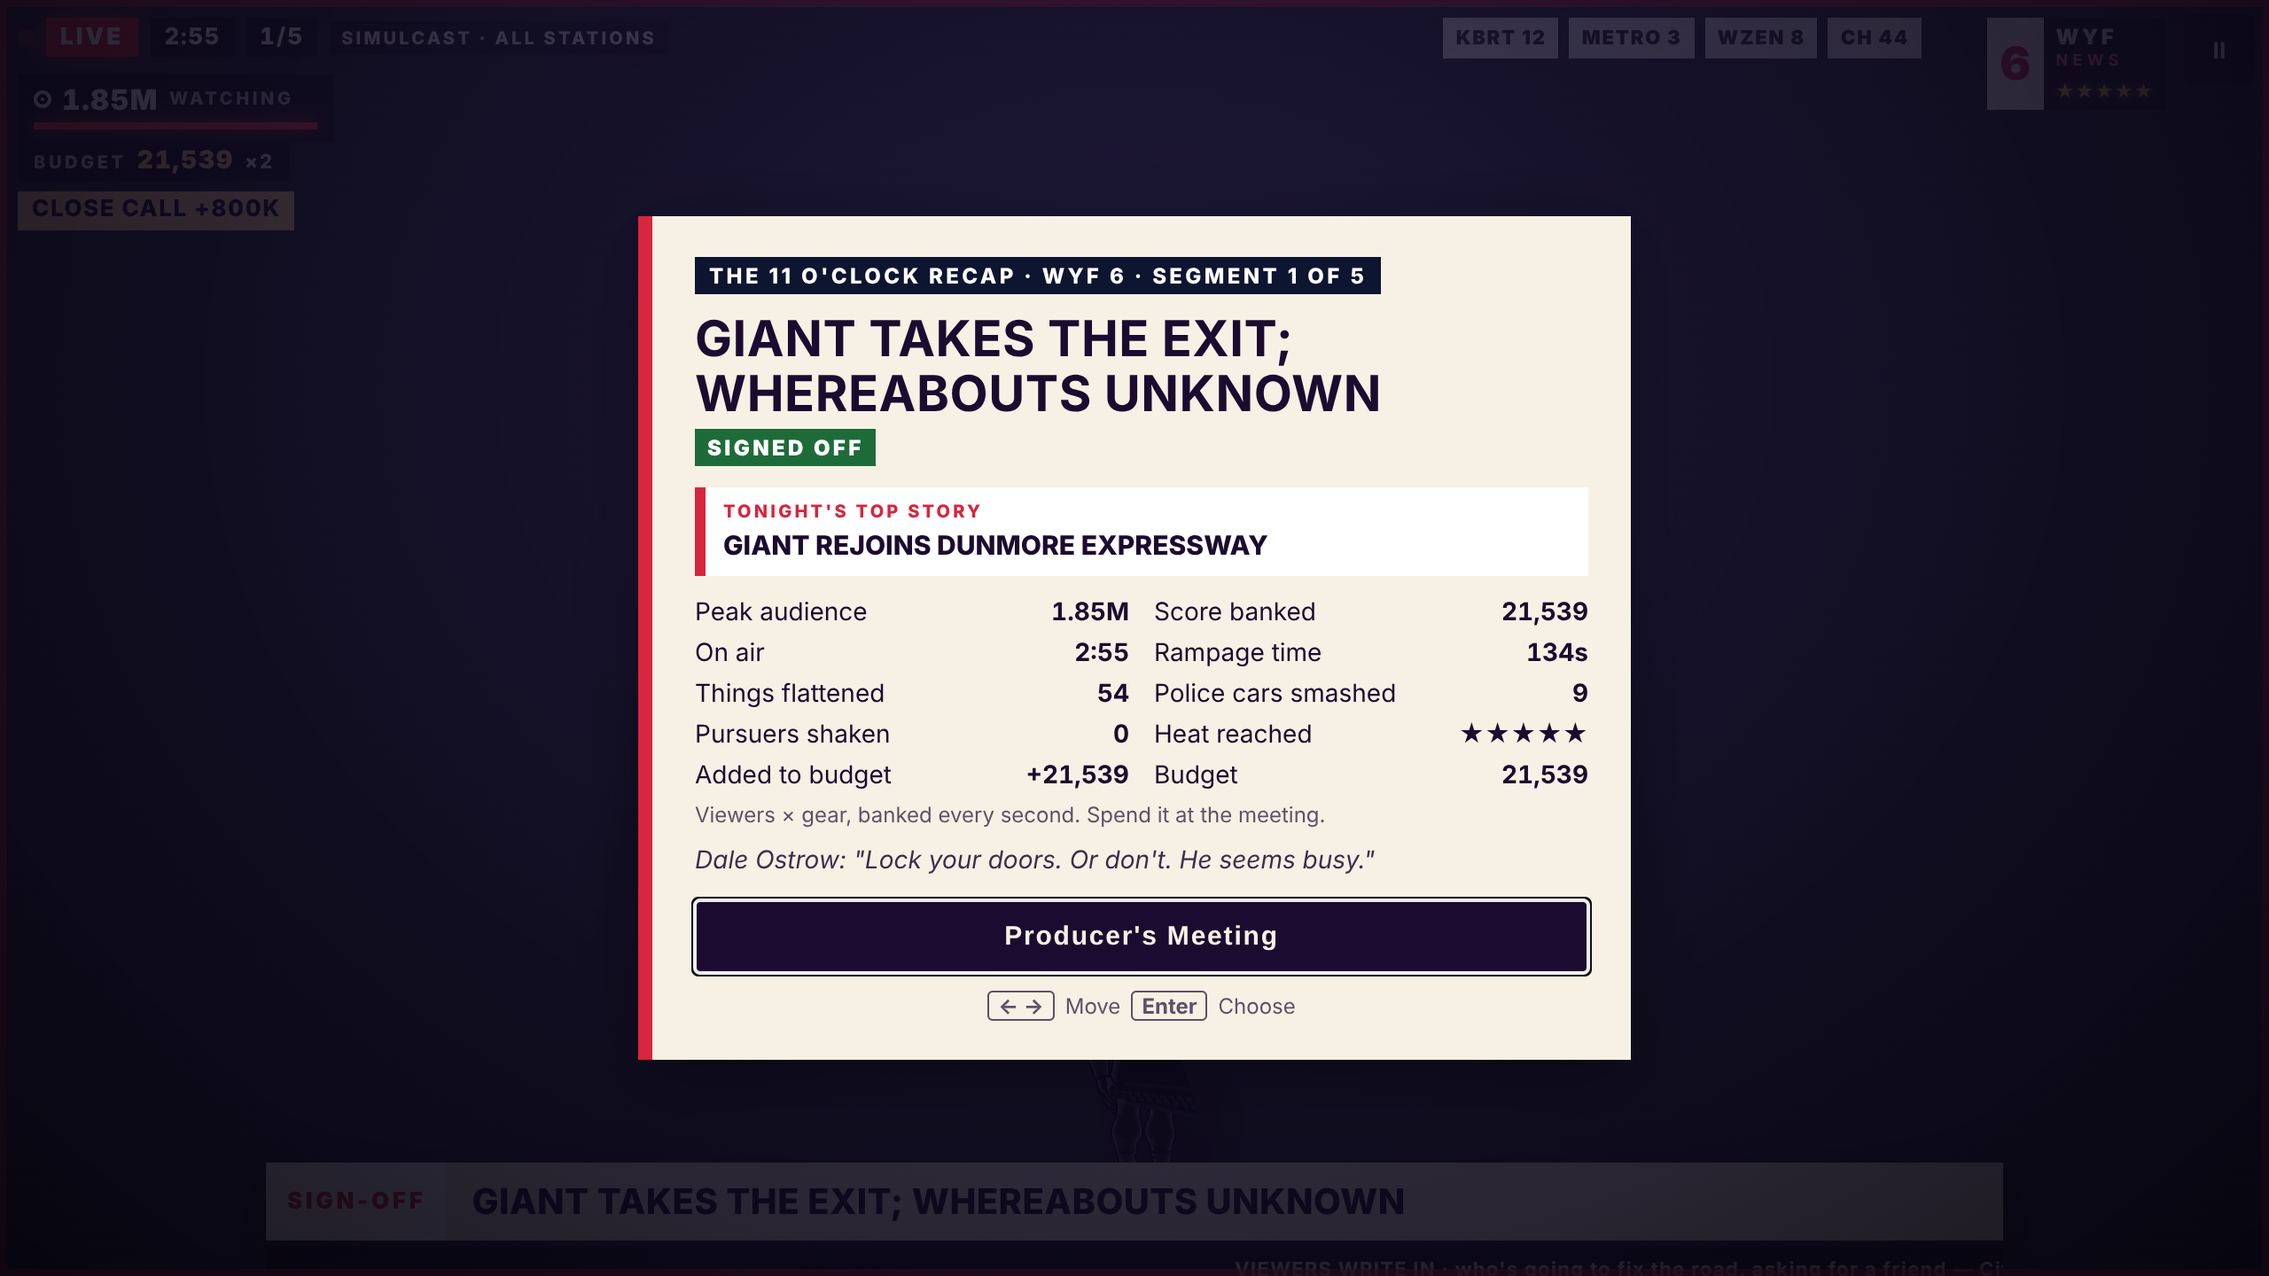
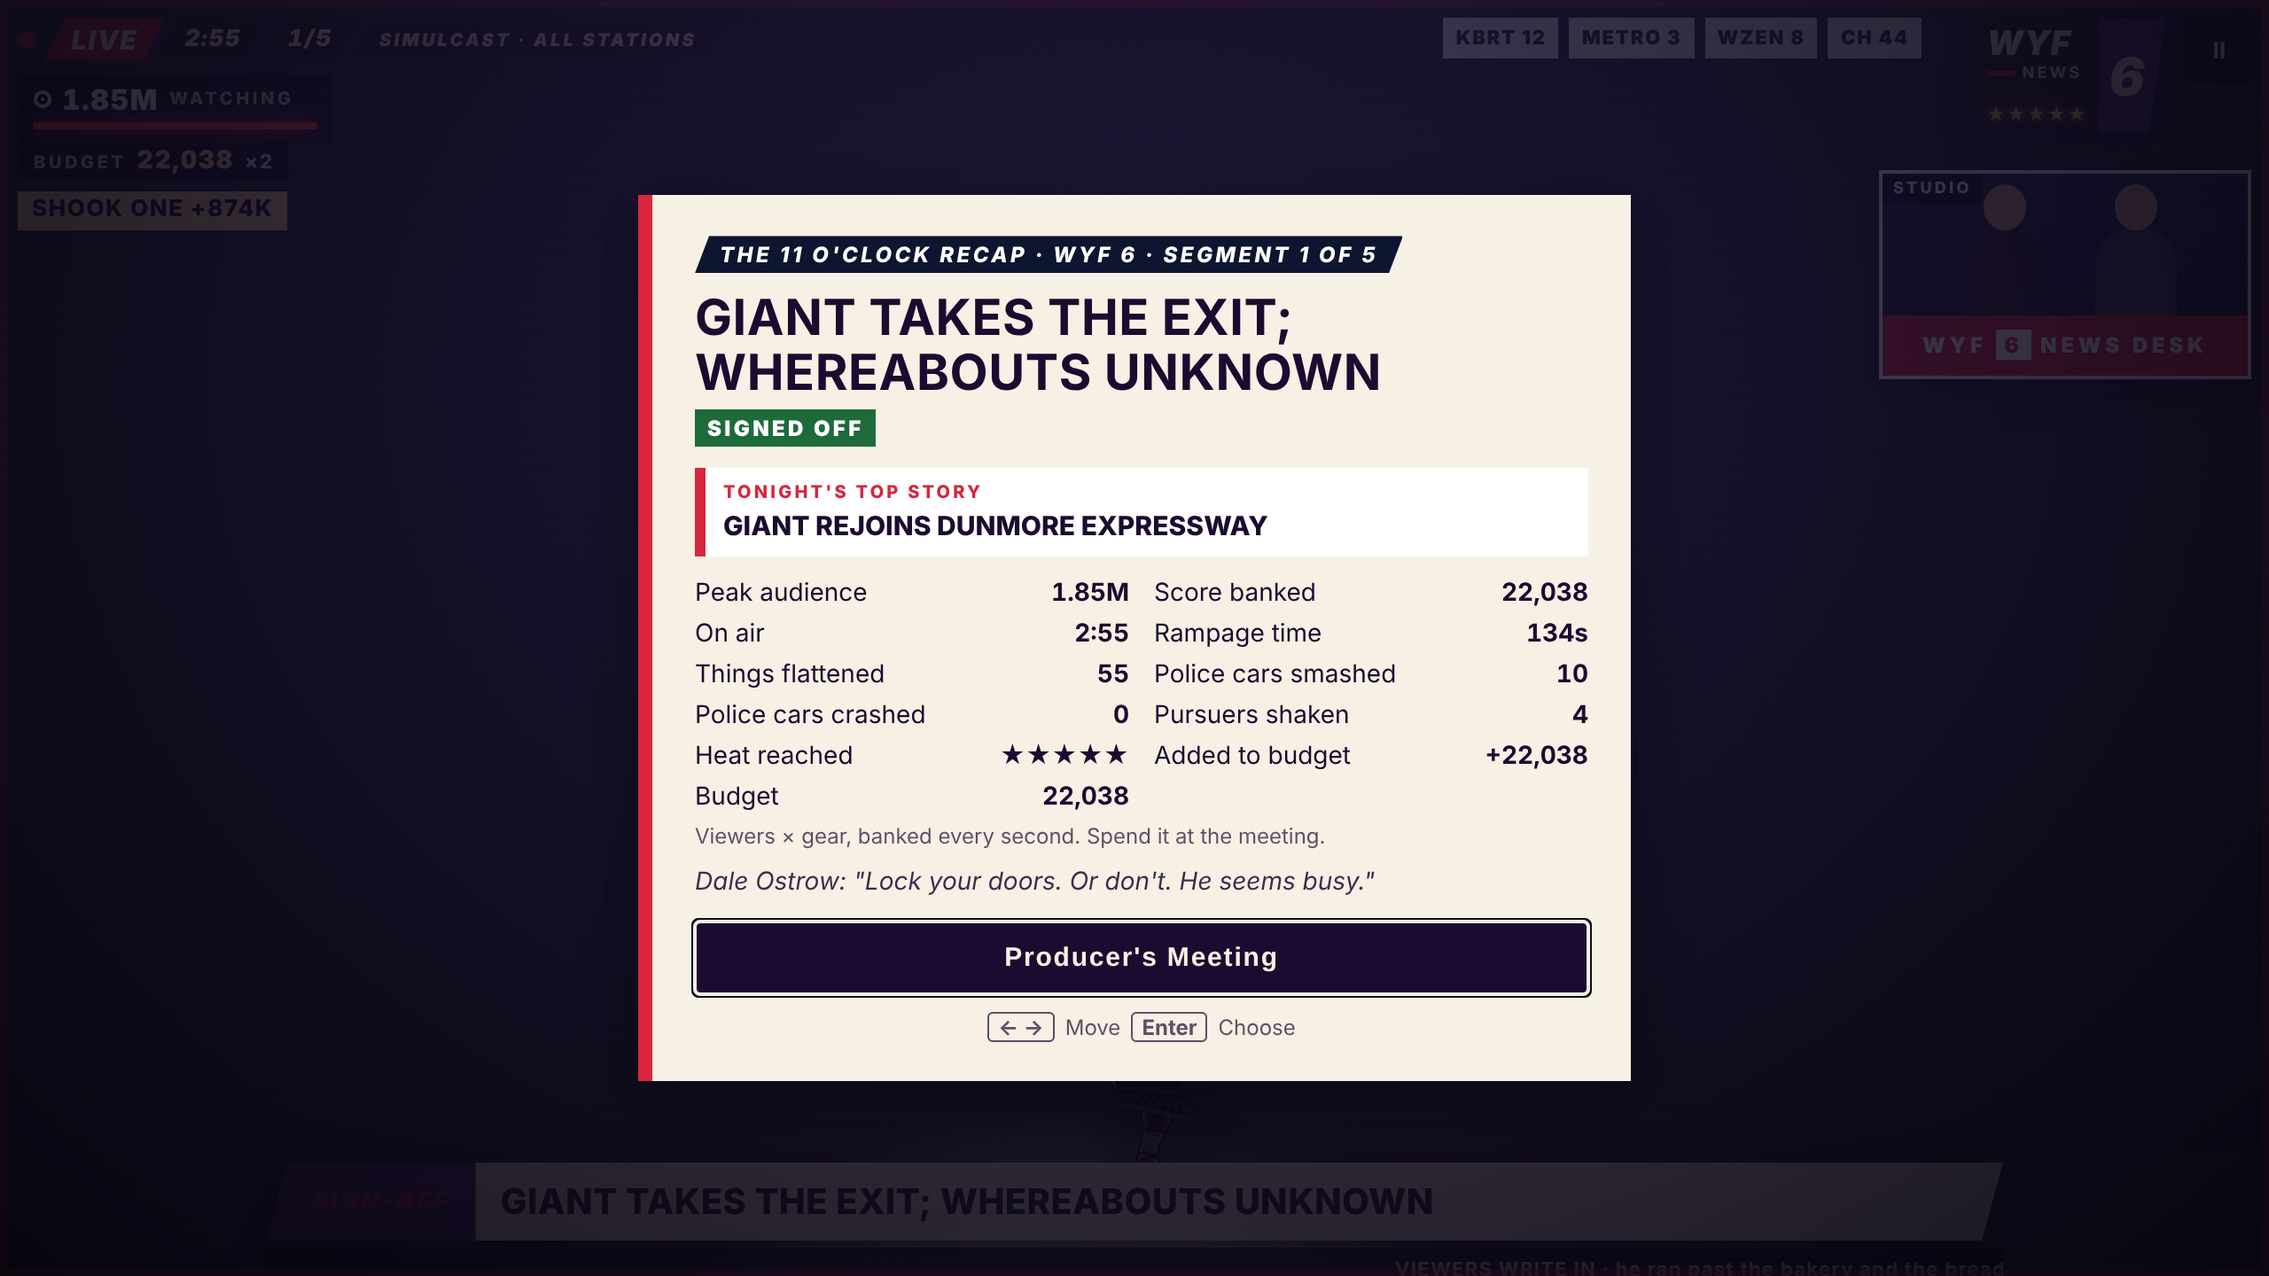
Broadcast package and upgrade art from Mike's sheet; police crash evidence
- HUD badges rebuilt in CSS from the sheet: slanted shapes, italic caps,
  red/ink/purple/cream; WYF/NEWS bug with the 6 on purple; BUSTED and
  SIGN-OFF kickers coloured.
- The 8 upgrade illustrations on the Producer's Meeting cards, the
  ability chip and the touch button; Mike's producer lines on each card.
- Police crash evidence renders frames while searching (units had no views).

Claude-Session: https://claude.ai/code/session_01U6CEu36hrVhyNvxAEfgX3T

diff --git a/src/style.css b/src/style.css
@@ -387,3 +387,50 @@ html:has(#budget:not([hidden])) #gainpop { top: calc(108px + env(safe-area-inset
 #recap .meeting .how { font-size: 13px; opacity: 0.75; margin: 4px 0 10px; }
 #recap .pitch .need { display: block; font-size: 11px; font-weight: 700; color: #d7263d; margin-top: 2px; }
 #recap .stats .how { grid-column: 1 / -1; font-size: 12px; opacity: 0.7; }
+
+/* --- Broadcast package from Mike's sheet (docs/refs/broadcast-and-upgrades-sheet.webp) -------------
+   Rebuilt as CSS shapes, not the raster: slanted parallelograms, heavy italic caps, the sheet's
+   red / ink / purple / cream. Crisp at any size, no fringing. ------------------------------------- */
+:root { --wyf-red: #ab2530; --wyf-ink: #1e1821; --wyf-purple: #4b2a63; --wyf-cream: #ece0c8; --wyf-blue: #465a7a; --slant: 12px; }
+#live b, #live #clock, #live #segno, #live #coverage {
+  font-style: italic; font-weight: 900;
+  clip-path: polygon(var(--slant) 0, 100% 0, calc(100% - var(--slant)) 100%, 0 100%);
+  padding-left: calc(8px + var(--slant) * 0.6); padding-right: calc(8px + var(--slant) * 0.6);
+}
+#live { gap: 0; }
+#live .dot { margin-right: 6px; }
+#live b { background: var(--wyf-red); color: var(--wyf-cream); box-shadow: none; font-size: 15px; letter-spacing: 0.06em; }
+#live #clock, #live #segno, #live #coverage { background: rgba(30, 24, 33, 0.82); color: var(--wyf-cream); margin-left: -4px; }
+#live #clock.count { background: #1e6b3a; }
+/* Station bug: WYF / NEWS on ink, the 6 on purple, one slanted block. */
+#bug { opacity: 0.9; filter: drop-shadow(0 3px 8px rgba(0, 0, 0, 0.45)); }
+#bug .call { order: 0; background: var(--wyf-ink); color: var(--wyf-cream); font-style: italic; font-weight: 900; font-size: 19px; letter-spacing: 0.02em; padding: 5px 6px 4px 18px; clip-path: polygon(12px 0, 100% 0, 100% 100%, 0 100%); }
+#bug .call i { color: var(--wyf-cream); font-size: 9px; letter-spacing: 0.18em; display: flex; align-items: center; gap: 4px; }
+#bug .call i::before { content: ''; width: 16px; height: 3px; background: var(--wyf-red); }
+#bug .ch { order: 1; background: var(--wyf-purple); color: var(--wyf-cream); font-style: italic; font-size: 30px; padding: 2px 12px 0 6px; clip-path: polygon(0 0, 100% 0, calc(100% - 10px) 100%, 0 100%); }
+/* Chyron: red kicker + cream field, slanted ends. */
+#chyron { box-shadow: none; filter: drop-shadow(0 6px 16px rgba(0, 0, 0, 0.45)); }
+#chyron .kicker { background: var(--wyf-red); color: var(--wyf-cream); font-style: italic; padding: 0 14px 0 calc(14px + var(--slant)); clip-path: polygon(var(--slant) 0, 100% 0, 100% 100%, 0 100%); }
+#chyron .kicker.breaking { background: var(--wyf-cream); color: var(--wyf-red); }
+#chyron .kicker.busted { background: var(--wyf-red); }
+#chyron .kicker.signoff { background: var(--wyf-purple); }
+#chyron .text { background: rgba(236, 224, 200, 0.97); color: var(--wyf-ink); clip-path: polygon(0 0, 100% 0, calc(100% - var(--slant)) 100%, 0 100%); }
+#breaking { background: var(--wyf-red); color: var(--wyf-cream); font-style: italic; box-shadow: none; clip-path: polygon(18px 0, 100% 0, calc(100% - 18px) 100%, 0 100%); }
+.card .kicker, #recap .kicker { font-style: italic; clip-path: polygon(8px 0, 100% 0, calc(100% - 8px) 100%, 0 100%); padding-left: 14px; padding-right: 14px; }
+/* Producer's Meeting cards: the sheet's art up top, the producer's line, then what it does. */
+#recap .pitch { padding: 0 0 12px; overflow: hidden; }
+#recap .pitch > :not(.art) { margin-left: 12px; margin-right: 12px; }
+#recap .pitch .art { position: relative; display: block; width: 100%; aspect-ratio: 16 / 10; overflow: hidden; background: #191230; }
+#recap .pitch .art img { width: 100%; height: 100%; object-fit: cover; display: block; }
+#recap .pitch .art .tag { position: absolute; left: 8px; top: 8px; font-style: italic; font-weight: 900; clip-path: polygon(5px 0, 100% 0, calc(100% - 5px) 100%, 0 100%); padding: 3px 9px; background: var(--wyf-ink); color: var(--wyf-cream); }
+#recap .pitch.ability .art .tag { background: var(--wyf-red); }
+#recap .pitch.passive .art .tag { background: var(--wyf-purple); }
+#recap .pitch .said { font-size: 13px; font-style: italic; color: var(--wyf-cream); line-height: 1.35; quotes: '“' '”'; }
+#recap .pitch .blurb { font-size: 12px; opacity: 0.7; }
+#recap .pitch:disabled .art img { filter: grayscale(0.7); }
+/* Ability chip and touch button carry the art. */
+#abil .ic { width: 34px; height: 34px; object-fit: cover; margin: -2px 0 -2px -4px; border: 1px solid rgba(236, 224, 200, 0.35); }
+#abil:not(.ready) .ic { filter: grayscale(0.8) brightness(0.7); }
+#btn-ability { background-size: cover; background-position: center; color: var(--wyf-cream); text-shadow: 0 1px 3px #000; display: grid; align-items: end; padding-bottom: 6px; }
+#btn-ability:not(.ready) { filter: grayscale(0.8); }
+#btn-ability.ready { background-color: transparent; color: var(--wyf-cream); box-shadow: 0 0 0 3px #f2cc8f; }

diff --git a/src/tuning.ts b/src/tuning.ts
@@ -560,15 +560,15 @@ export const TUNING = {
    * segment affords the cheaper half; saving up for Leap/Hijack is a real choice.
    */
   upgrades: {
-    leap: { kind: 'ability', price: 26000, label: 'Leap', blurb: 'Hop lanes of trouble. The landing flattens what you land on.' },
-    stare: { kind: 'ability', price: 21000, label: 'The Stare', blurb: 'Traffic and police ahead pull out of your lane.' },
-    hijack: { kind: 'ability', price: 30000, label: 'Hijack Hop', blurb: 'Ride a car through everything, then bail at Rampage.' },
-    pose: { kind: 'ability', price: 21000, label: 'Pose for the Camera', blurb: 'Stop for the cameras. Heat becomes a Ratings spike.' },
-    ironShins: { kind: 'passive', price: 17000, label: 'Iron Shins', blurb: 'Medium objects never bounce you.' },
-    secondWind: { kind: 'passive', price: 17000, label: 'Second Wind', blurb: 'The box-in meter drains 50% faster.' },
-    showman: { kind: 'passive', price: 22000, label: 'Showman', blurb: 'Something new on air pays double.' },
-    tailwind: { kind: 'passive', price: 19000, label: 'Tailwind', blurb: 'Tier up 30% sooner.' },
-  } as Record<UpgradeId, { kind: 'ability' | 'passive'; price: number; label: string; blurb: string }>,
+    leap: { kind: 'ability', price: 26000, label: 'Leap', blurb: 'Hop lanes of trouble. The landing flattens what you land on.', pitch: 'Get a clean shot of him clearing the spike strip.' },
+    stare: { kind: 'ability', price: 21000, label: 'The Stare', blurb: 'Traffic and police ahead pull out of your lane.', pitch: 'Stay tight on the eyes. We have time.' },
+    hijack: { kind: 'ability', price: 30000, label: 'Hijack Hop', blurb: 'Ride a car through everything, then bail at Rampage.', pitch: 'Follow him across the car roofs. Keep it wide.' },
+    pose: { kind: 'ability', price: 21000, label: 'Pose for the Camera', blurb: 'Stop for the cameras. Heat becomes a Ratings spike.', pitch: 'Hold the close-up. He’s giving us a usable still.' },
+    ironShins: { kind: 'passive', price: 17000, label: 'Iron Shins', blurb: 'Medium objects never bounce you.', pitch: 'Keep rolling. The street furniture won’t slow him down.' },
+    secondWind: { kind: 'passive', price: 17000, label: 'Second Wind', blurb: 'The box-in meter drains 50% faster.', pitch: 'Stay with him. He’s slipping out of the box-in faster.' },
+    showman: { kind: 'passive', price: 22000, label: 'Showman', blurb: 'Something new on air pays double.', pitch: 'Double the variety bonus when he gives us something we haven’t aired.' },
+    tailwind: { kind: 'passive', price: 19000, label: 'Tailwind', blurb: 'Tier up 30% sooner.', pitch: 'Cue the wide shot. He’s hitting the next speed tier 30% sooner.' },
+  } as Record<UpgradeId, { kind: 'ability' | 'passive'; price: number; label: string; blurb: string; /** The producer's line on the meeting card (flavour). */ pitch: string }>,
 
   /** Phase 3 abilities (lane-runner versions of §17's pool). 5f input buffer (§8). */
   abilities: {

diff --git a/src/game.ts b/src/game.ts
@@ -23,6 +23,7 @@ import { Input } from './input';
 import { registerGlyphs, padFamily, type GlyphAction } from './glyphs';
 import { Tips } from './tips';
 import coverUrl from './assets/title-cover.webp';
+import { UPGRADE_ART } from './upgradeArt';
 import { readFlags } from './debug';
 import { loadSettings, saveSettings } from './settings';
 import { applyStoredTuning, mountTuningPanel } from './tuningPanel';
@@ -61,6 +62,7 @@ const signoffArrow = signoffEl.querySelector('.arrow') as HTMLElement;
 const segEl = $('segno');
 const abilEl = $('abil');
 const abilName = abilEl.querySelector('.nm') as HTMLElement;
+const abilIcon = abilEl.querySelector('.ic') as HTMLImageElement;
 const abilKey = abilEl.querySelector('.key') as HTMLElement;
 const abilCd = abilEl.querySelector('.cd i') as HTMLElement;
 const abilBtn = $<HTMLButtonElement>('btn-ability');
@@ -390,8 +392,8 @@ function showMeeting() {
         const u = TUNING.upgrades[id];
         const swap = u.kind === 'ability' && held ? `<small class="swap">Replaces ${esc(TUNING.upgrades[held].label)}</small>` : '';
         return `<button class="pitch ${u.kind}" data-id="${id}" ${r.canAfford(id) ? '' : 'disabled'}>
-          <span class="tag">${u.kind === 'ability' ? 'ABILITY' : 'PASSIVE'}</span>
-          <b>${esc(u.label)}</b><span class="blurb">${esc(u.blurb)}</span>${swap}<span class="price">${u.price.toLocaleString()}</span>${r.canAfford(id) ? '' : `<small class="need">Need ${(u.price - r.purse).toLocaleString()} more</small>`}</button>`;
+          <span class="art"><img src="${UPGRADE_ART[id]}" alt="" /><span class="tag">${u.kind === 'ability' ? 'ABILITY' : 'PASSIVE'}</span></span>
+          <b>${esc(u.label)}</b><q class="said">${esc(u.pitch)}</q><span class="blurb">${esc(u.blurb)}</span>${swap}<span class="price">${u.price.toLocaleString()}</span>${r.canAfford(id) ? '' : `<small class="need">Need ${(u.price - r.purse).toLocaleString()} more</small>`}</button>`;
       })
       .join('')}</div>
     <div class="row"><button class="go alt" id="skip">Skip</button></div>
@@ -476,6 +478,8 @@ function recapToMenu() {
 function showHeadline(h: Headline) {
   chyKicker.textContent = h.kicker;
   chyKicker.classList.toggle('breaking', h.breaking);
+  chyKicker.classList.toggle('busted', h.kicker === 'BUSTED');
+  chyKicker.classList.toggle('signoff', h.kicker === 'SIGN-OFF');
   const span = document.createElement('span');
   span.textContent = h.text;
   span.className = 'in';
@@ -1320,6 +1324,8 @@ function updateHud(dt: number) {
     const label = TUNING.upgrades[ab].label;
     if (abilName.textContent !== label) {
       abilName.textContent = label;
+      abilIcon.src = UPGRADE_ART[ab];
+      abilBtn.style.backgroundImage = `url(${UPGRADE_ART[ab]})`;
       abilBtn.textContent = label.split(' ')[0].toUpperCase().slice(0, 5);
       abilBtn.setAttribute('aria-label', label);
     }

diff --git a/src/upgradeArt.ts b/src/upgradeArt.ts
@@ -1,0 +1,12 @@
+import type { UpgradeId } from './tuning';
+import leap from './assets/upgrades/leap.webp';
+import stare from './assets/upgrades/stare.webp';
+import hijack from './assets/upgrades/hijack.webp';
+import pose from './assets/upgrades/pose.webp';
+import ironShins from './assets/upgrades/ironShins.webp';
+import secondWind from './assets/upgrades/secondWind.webp';
+import showman from './assets/upgrades/showman.webp';
+import tailwind from './assets/upgrades/tailwind.webp';
+
+/** Card art for the Producer's Meeting and the ability chip (Mike's sheet, docs/refs/broadcast-and-upgrades-sheet.webp). */
+export const UPGRADE_ART: Record<UpgradeId, string> = { leap, stare, hijack, pose, ironShins, secondWind, showman, tailwind };

diff --git a/index.html b/index.html
@@ -35,7 +35,7 @@
       <div id="controls" hidden aria-hidden="true"></div>
       <div id="tip" role="status" aria-live="polite"><span class="who">Producer</span><span class="txt"></span></div>
       <div id="abilpop" aria-live="polite"></div>
-      <div id="abil" hidden aria-hidden="true"><b class="nm"></b><span class="key"></span><span class="cd"><i></i></span></div>
+      <div id="abil" hidden aria-hidden="true"><img class="ic" alt="" /><b class="nm"></b><span class="key"></span><span class="cd"><i></i></span></div>
       <div id="tierbar" aria-hidden="true"><span class="name">JOG</span><span class="meter"><i></i></span></div>
 
       <div id="touch-ui" hidden>

diff --git a/DECISIONS.md b/DECISIONS.md
@@ -4,6 +4,7 @@ Build-time decisions, working defaults for open questions (GDD §46), and deviat
 
 | Date | Decision | Why | Revisit |
 |---|---|---|---|
+| 2026-11-15 | **Broadcast package and upgrade art from Mike's sheet** (`docs/refs/broadcast-and-upgrades-sheet.webp`). The badges (LIVE, station bug, chyron, BREAKING, BUSTED / SIGN-OFF kickers, card kickers) are rebuilt in CSS, not cut from the raster: slanted parallelograms, heavy italic caps, the sheet's red #ab2530 / ink #1e1821 / purple #4b2a63 / cream #ece0c8. Crisp at any size, and none of the raster's edge fringing. The bug reads WYF / NEWS on ink with the 6 on purple. The 8 illustrations are cropped to 256px webp (`src/assets/upgrades/`) for the Producer's Meeting cards (art on top, then the producer's line as a quote, then what it does) and for the ability chip and touch button (greyed while cooling down). Producer lines are Mike's (`pitch` in `tuning.ts` upgrades). EXCLUSIVE and REPLAY have no use yet (replays are Phase 5). | Mike's sheet and copy. | Phase 5 (EXCLUSIVE/REPLAY when replays exist) |
 | 2026-11-14 | **Police chopper spotlight (v0.3 §11), the fifth pursuer.** It joins at Heat 2+, at most one per 25s. It spawns ≥110m ahead (off camera) and hovers off the top of the frame until no other tell is live. Then it sweeps in, and its **1.5s tell** (a rising second rotor, a cool white pool and beam sliding across the road) starts on screen, like every tell. **Locked:** the pool rides him, his lane gets a pulsing stripe ahead of him ("marked for units"), and police spawn twice as fast. **Shake it:** two lane changes with under 3s between them (+lost track, "Giant Shakes Police Chopper"). A tunnel breaks line of sight too: that isn't a route choice, the road just goes there. After 12s it gives up with no award. Additive meshes only, no real light, so looks never recompile shaders. Soak (200 seeds): 400 locks, 394 shaken by the bot; the other threats spawn as often as before. | v0.3 §11 table; Mike: "go ahead with the chopper spotlight". Route choice isn't in the game yet, so overpasses don't count as cover (Mike: "IDK about the route choices yet"). | Mike's playtest (is twice-quickly too easy?) |
 | 2026-11-14 | **Police cars hit things (lead the chase).** Pursuit cruisers drive in lanes and hit what's in them. Alongside him they're **fixated**: they keep pace even when their lane is blocked ahead, and their only escape is the lane away from him. So running beside a Heavy row leads one into it. **Medium:** it ploughs through (+2 Ratings "collateral", the prop flies). **Heavy/immovable:** it crashes out of the chase, a Heavy prop goes flying with it, +8 Ratings (`policeCrash`, more than shaking a pursuer), a cut-away trigger (as a Heavy smash) and viewer video. The chyron names what it hit ("Cruiser Crashes Into Box Truck; Officers Fine"); nobody is shown hurt. **Readable from the chopper (§1):** crashes only happen at most 3m behind him or anywhere ahead of that; soak (200 seeds): 75 crashes, 1 just outside the frame (the soak allows ≤10%). The escort cruisers still never touch props. | Mike: police cars hitting objects "aids lead/chase gameplay and can link to attention, score". | Mike's playtest; escort crashes if wanted |
 | 2026-11-14 | **Fixed: cruisers could park in his lane.** A leaving cruiser's speed was max(0, his speed − 6), so at brake speed it stopped dead, and one alongside could end up in his lane. He then stood pinned against stopped police cars (7/200 soak broadcasts busted on Pin once the chopper added traffic; baseline max Pin 18). Now a leaving cruiser keeps ≥40% of his speed, pulls out of his lane, and if it's level with or ahead of him while still in his way it speeds up to clear him (instead of stalling half in his lane). A cruiser that isn't alongside him still hangs back 9m, as before; only one alongside is fixated. Soak (200 seeds): 0 Pin busts, max Pin 31 (it was 10 before; the chopper adds real pressure). | Being boxed in by parked cars isn't a choice the player made (§43.3). | — |
